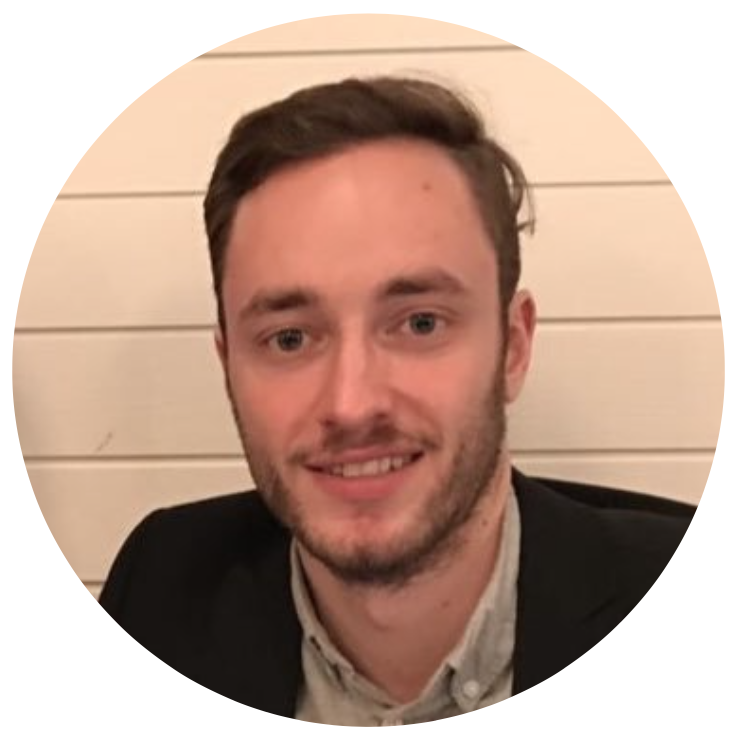
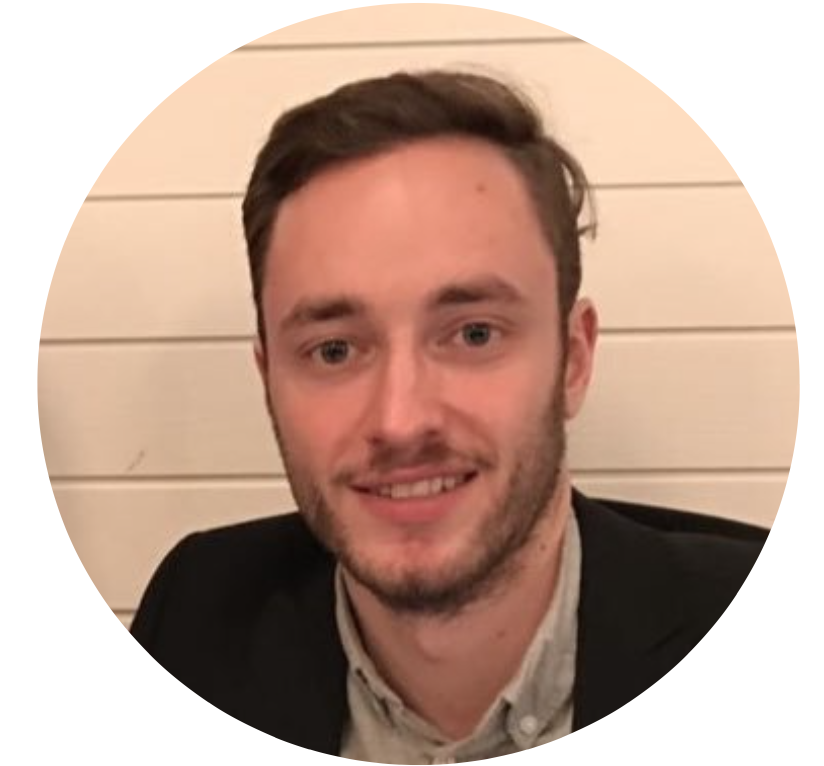
equalized about images

diff --git a/about.html b/about.html
@@ -18,7 +18,7 @@ background: https://media.giphy.com/media/3rgXBAKopU55wtfp6g/giphy.gif
          <a href="https://twitter.com/saakohl" style="text-decoration: underline">Simon Kohl </a></center>
 	</div> 
 	<div style="width:45%" float:right>
-	<center><a href="https://twitter.com/pfjaeger"><img src="img/paul_twitter_2.png" width="40%" ></a> <br><br>
+	<center><a href="https://twitter.com/pfjaeger"><img src="img/paul_twitter_2.png" width="42%" ></a> <br><br>
 	<a href="https://twitter.com/pfjaeger" style="text-decoration: underline">Paul F. Jaeger</a></center>
 	</div>
 	</div>
